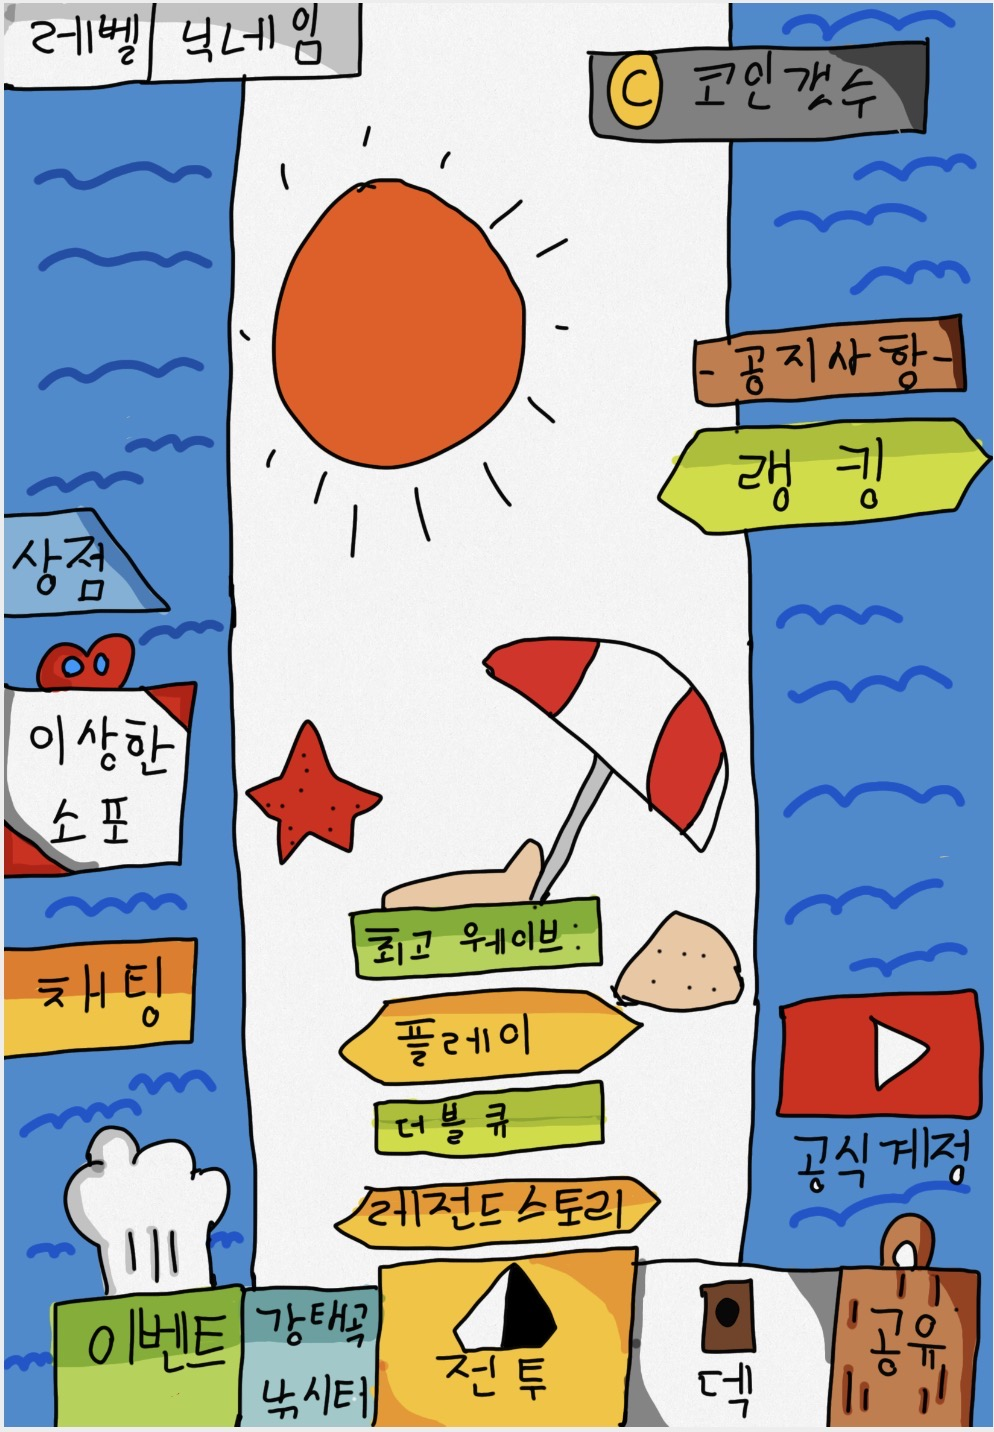
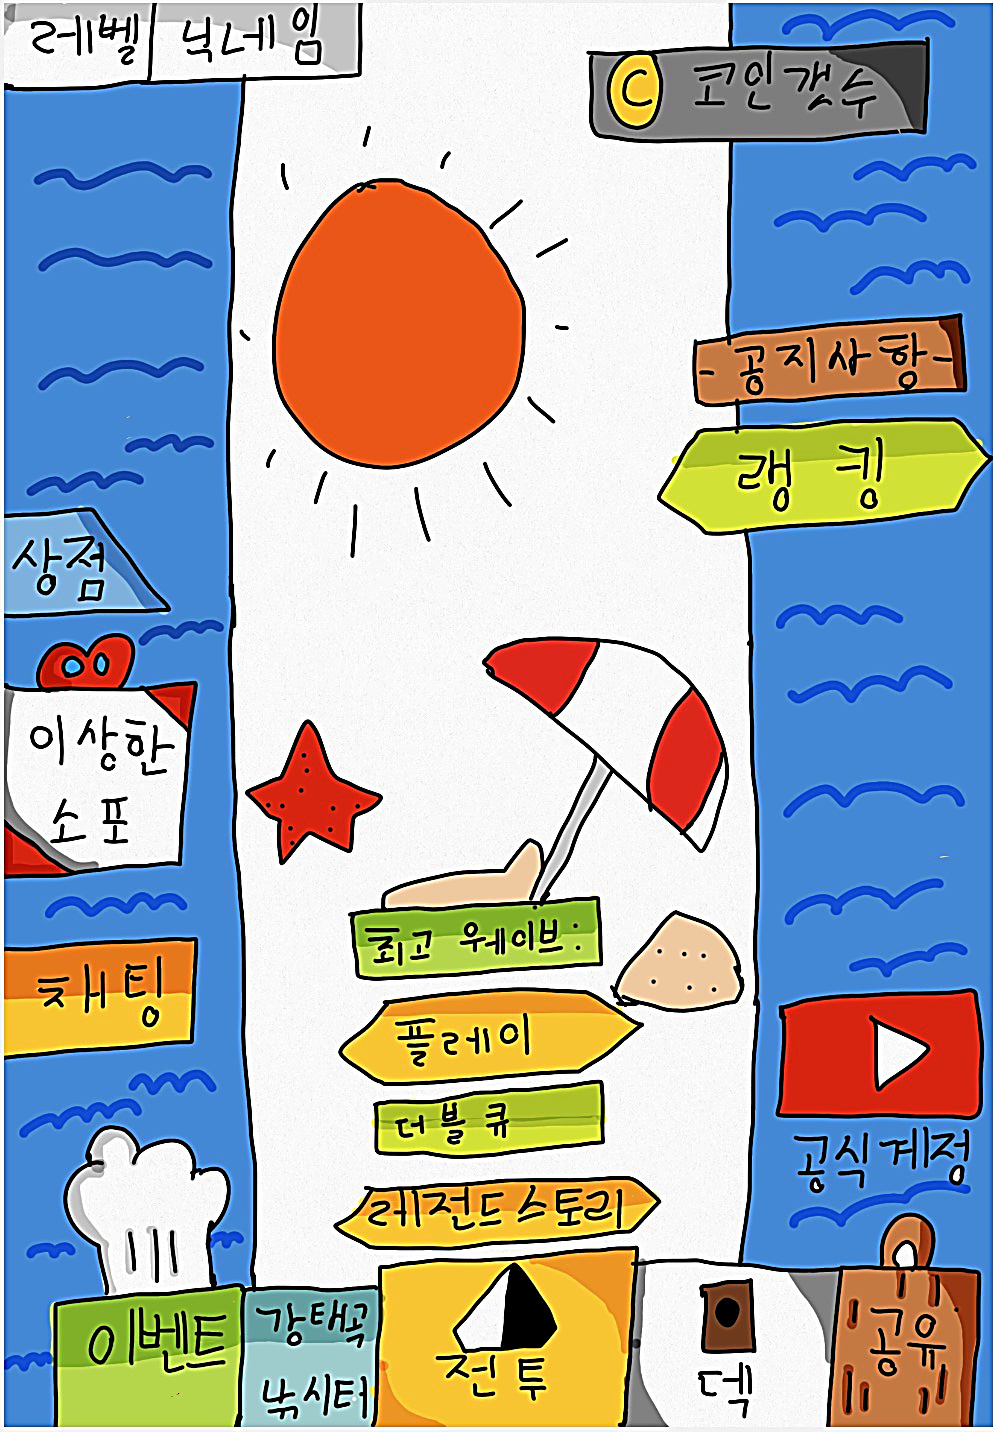
🐛 홈 화면 버그 수정 + 버튼 키우고 그림 선명하게 (기획: 구예준)
플레이 버그의 원인 두 가지:
1. VOTE_ROUND 상수를 코드 정리 중에 지워, 홈을 그릴 때 ReferenceError 가 나고
   그 뒤 스크립트가 통째로 중단됐다 (window.__game 도 안 만들어짐)
2. 버튼 꾸미기 기능(applyLayout)이 초기화하면서 모든 버튼의 left/top 을 지워
   14개 버튼이 한자리에 겹쳤다 — 해변 화면에서는 건드리지 않게 했다

그 외
- 최고웨이브 숫자를 초록 바 안쪽으로 (바와 같은 색이라 원래 한 덩어리처럼)
- 그림을 세로로 살짝 늘리고 누르는 칸을 6% 넓혀 버튼을 조금 크게
- 그림 선명하게 (언샤프 마스크 + 대비·채도 소폭, 품질 95)

diff --git a/index.html b/index.html
@@ -923,13 +923,13 @@
      그대로 이어 그려서, 화면이 잘린 것처럼 보이지 않게 한다. */
   #beachBg {
     position: relative; flex: 1 1 auto; min-height: 0;
-    width: min(100%, calc(100dvh * 994 / 1432));
+    width: min(100%, calc(100dvh * 994 / 1500));
     display: flex; align-items: center; justify-content: center;
     background: linear-gradient(to right, #5089CB 0 23.5%, #F4F4F4 23.5% 74%, #5089CB 74% 100%);
   }
   #beachWrap {
     position: relative; flex: 0 0 auto;
-    aspect-ratio: 994 / 1432;
+    aspect-ratio: 994 / 1500;   /* 원본 994×1432 보다 살짝 세로로 늘려 버튼을 키운다 */
     width: 100%; max-height: 100%;
     background: url("beach/home.jpg") center / 100% 100% no-repeat;
   }
@@ -959,7 +959,7 @@
   }
   #bLv, #bNick { background: #fff; border: 2px solid #111; }
   #bCoin { background: #5a5a5a; color: #fff; border: 2px solid #111; }
-  #bBest { color: #111; }
+  #bBest { background: #84A83A; color: #111; }   /* 초록 바와 같은 색 — 바 안에 들어간 것처럼 */
   /* 그림에 자리가 없는 나머지 버튼은 그림 아래 여백에 작게 */
   body.beach #bMore {
     display: flex; flex-wrap: wrap; justify-content: center; gap: 5px;
@@ -5745,6 +5745,9 @@ function updatePoison(dt) {
 }
 // ---------- 🧰 버튼 배치 (편집기에서 저장한 설정) ----------
 function applyLayout() {
+  // 🏖 예준이가 그린 홈 화면일 때는 버튼 자리를 그림에 맞춰 놨으므로 손대지 않는다.
+  // (여기서 left/top 을 지우면 버튼이 전부 한자리에 겹친다)
+  if (document.body.classList.contains('beach')) return;
   let cfg = null;   // 기본은 원래 세로 배치. 편집기로 저장한 사람만 자유 배치가 적용된다
   try { cfg = JSON.parse(localStorage.getItem('ltd_layout') || 'null'); } catch (e) {}
   const ov = $('overlay');
@@ -7044,6 +7047,10 @@ function maybeShowNotice() {
   showNotice();
 }
 // 🎨 한국어일 때만 예준이 그림 버튼을 켠다 (그림 속 글씨가 한글이라)
+const BEACH_STRETCH = 1500 / 1432;   // 그림을 세로로 이만큼 늘려 버튼을 키웠다
+const BEACH_WRAP_AR = 994 / 1500;    // 화면에 깔린 그림칸의 가로÷세로
+const BEACH_GROW = 0.06;             // 누르는 칸을 사방으로 6% 넓힌다 (더 키우면 옆 버튼과 겹친다)
+const VOTE_ROUND = 1;   // 🗳 인기투표 회차 — 2 로 올리면 홈에 버튼이 다시 뜬다 (기획: 구예준)
 // 🏖 예준이가 그린 홈 화면 — 버튼 id → 그림 속 위치 [left%, top%, width%, 가로세로비]
 // 숫자는 IMG_1087(994×1432) 에서 그 버튼이 그려진 자리를 그대로 잰 값이다.
 const BEACH_ART = {
@@ -7067,7 +7074,7 @@ const BEACH_VAL = {
   bLv:   [ 0.90,  0.70, 14.0, 4.5],   // 레벨
   bNick: [15.40,  0.70, 20.6, 4.5],   // 닉네임
   bCoin: [66.90,  3.60, 26.0, 5.5],   // 코인갯수
-  bBest: [63.80, 63.60, 12.0, 5.0],   // 최고 웨이브: 뒤
+  bBest: [55.90, 63.30, 7.80, 5.8],   // 최고 웨이브: 초록 바 안쪽 오른끝
 };
 const ART_H = 62;                           // 그림 버튼 높이 (CSS 의 height 와 같아야 한다)
 function applyArtButtons() {
@@ -7110,8 +7117,14 @@ function applyBeach(on) {
     const b2 = $(id); if (!b2) continue;
     if (!on) { b2.style.cssText = ''; continue; }
     const [l, t, w, ar] = BEACH_ART[id];
-    b2.style.left = l + '%'; b2.style.top = t + '%';
-    b2.style.width = w + '%'; b2.style.aspectRatio = ar;
+    // 손가락이 조금 빗나가도 눌리게 누르는 칸을 사방으로 조금 넓힌다.
+    // 세로는 %의 기준이 가로와 달라, 그림 비율로 환산해서 같은 만큼 넓힌다.
+    const ar2 = ar / BEACH_STRETCH;                  // 세로로 늘린 만큼 되돌린 비율
+    const hPct = w * BEACH_WRAP_AR / ar2;            // 이 버튼 높이 (세로 %)
+    b2.style.left = (l - w * BEACH_GROW / 2) + '%';
+    b2.style.top = (t - hPct * BEACH_GROW / 2) + '%';
+    b2.style.width = (w * (1 + BEACH_GROW)) + '%';
+    b2.style.aspectRatio = ar2;
   }
   for (const id in BEACH_VAL) {
     const v = $(id); if (!v) continue;
